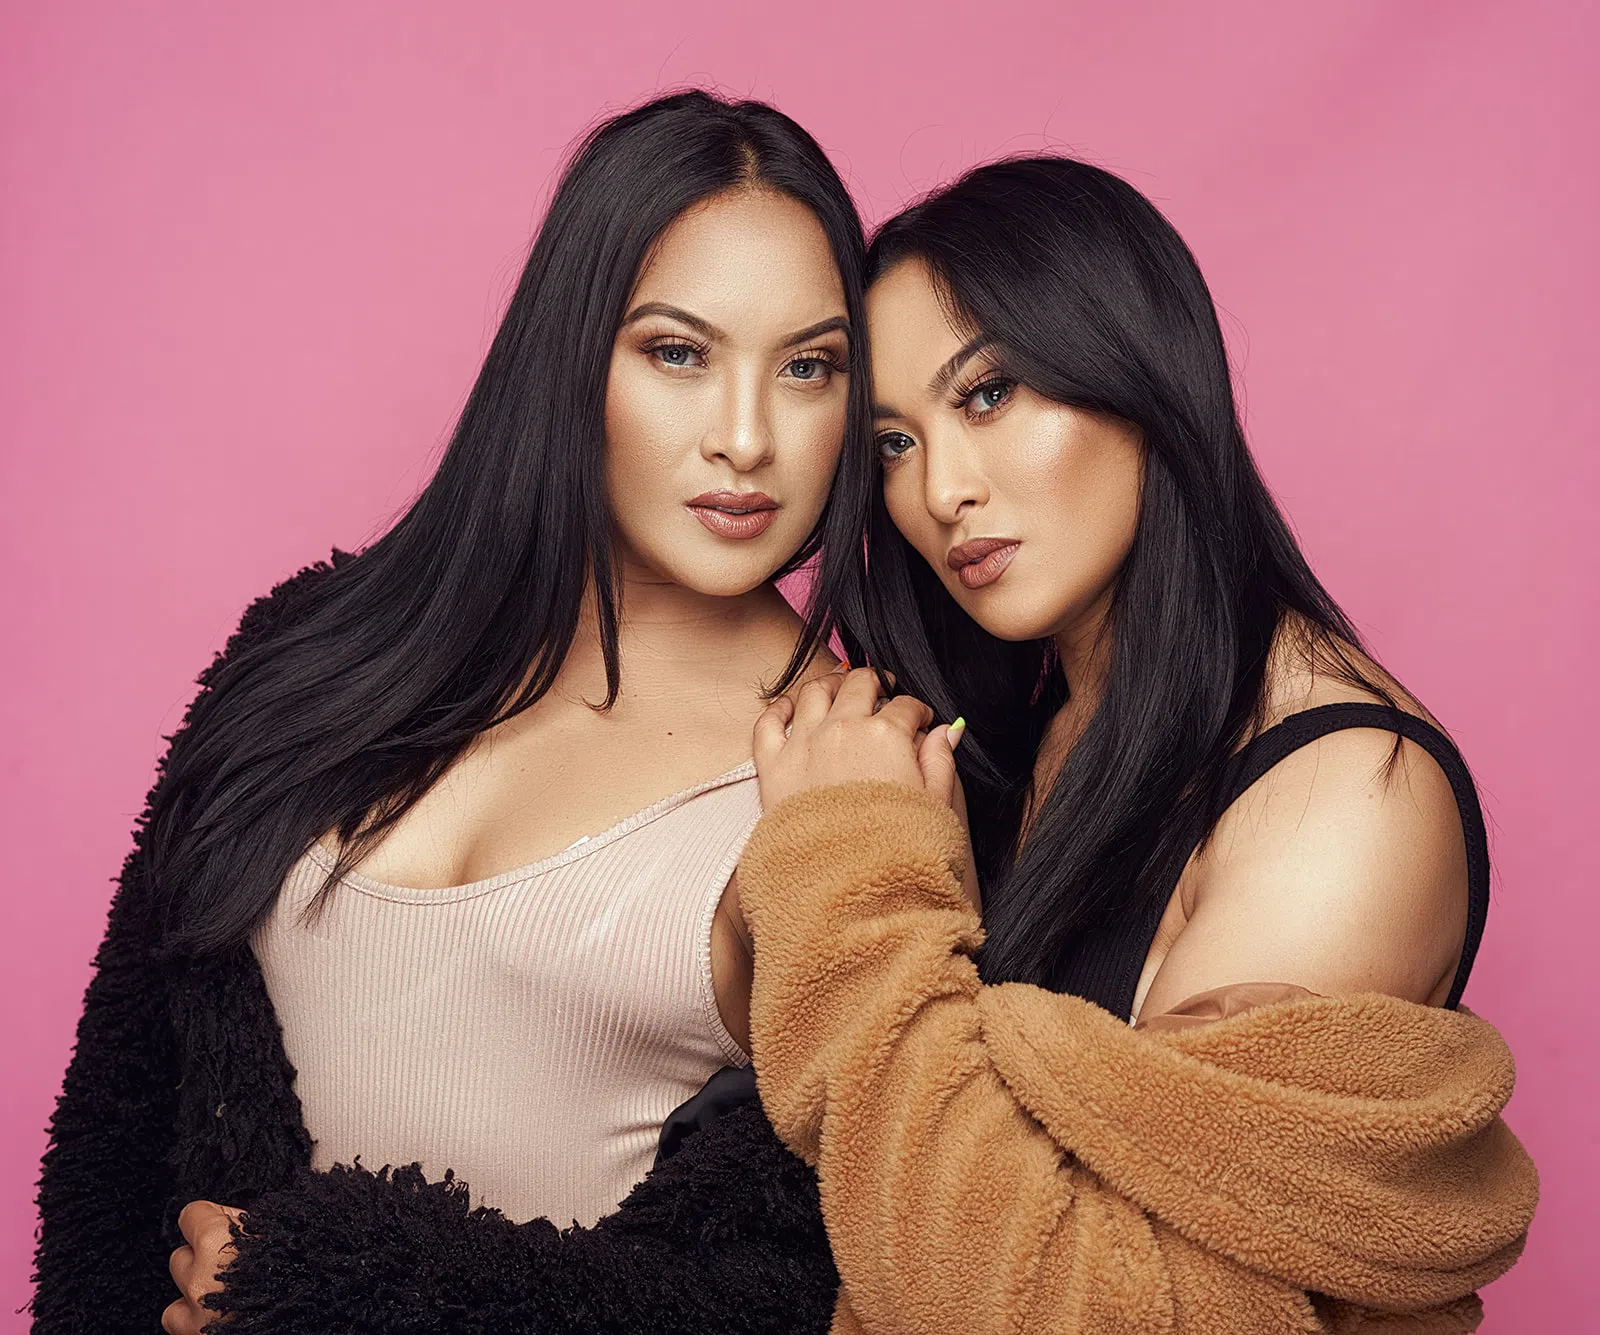
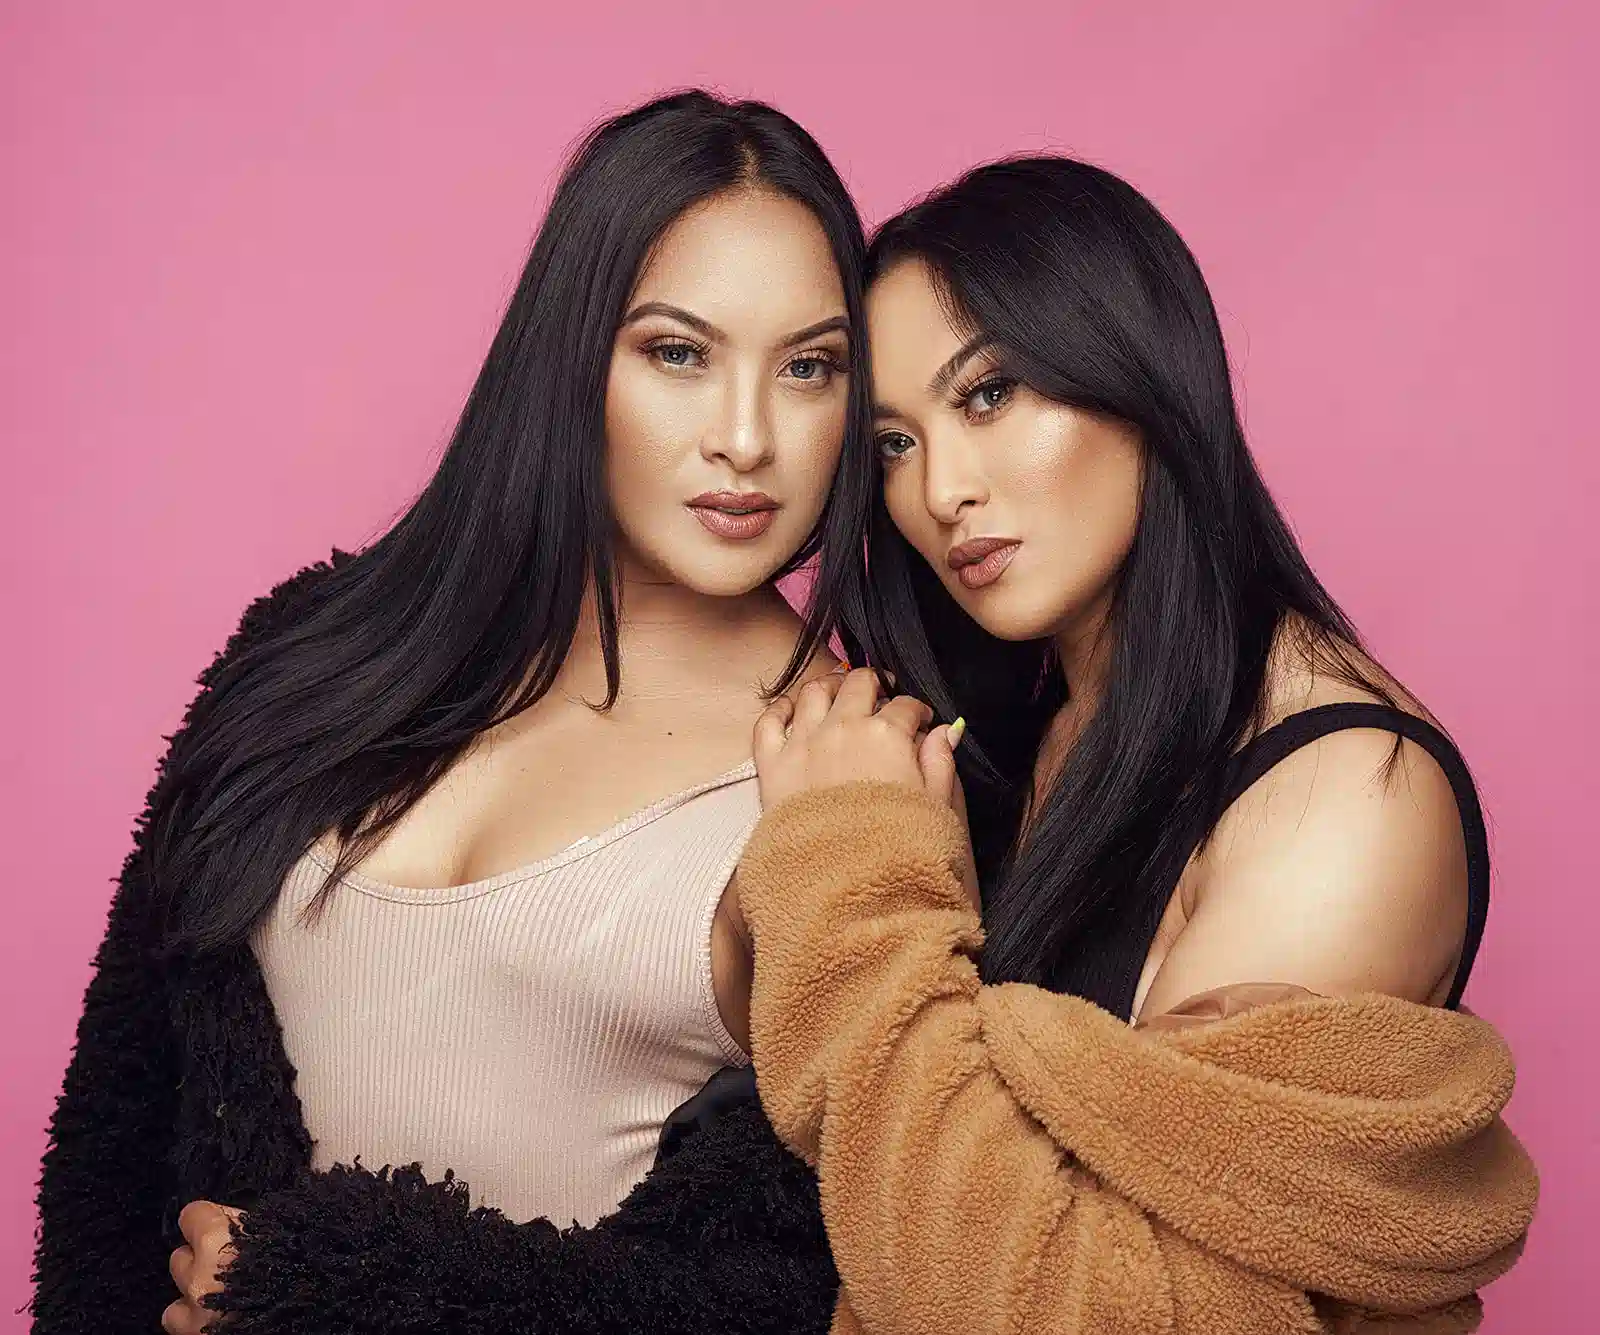
Compressed images to webp using lossy compresion at 20

diff --git a/src/App.svelte b/src/App.svelte
@@ -12,21 +12,34 @@
         <a href="https://www.youtube.com/channel/UC91OgmMT9nhFcjjDEfmJy-w" target="_blank"><i id="youtube" class="fab fa-youtube fa-5x"></i></a>
         <a href="https://instagram.com/macktwinsmakeup" target="_blank"><i id="insta" class="fab fa-instagram-square fa-5x"></i></a>
     </center>
-    
+    <br><br>
+    <h1>who we are</h1>
     <div transition:scale="{{ duration: 2000, delay: 2000}}" class="pad-top">
-        <div class="row center">
-            <div class="col">
-                <img src="portrait_One.webp" alt="portrait_image" height="1000vh" width="680vw">
-            </div>
-            <div class="col down">
-                <img src="portrait_Two.webp" alt="portrait_image" height="1000vh" width="680vw">
+        <div class="container">
+            <div class="row">
+                <div class="col-md-6 col-sm-12">
+                    <img class="img-fluid" src="portrait_One.webp" alt="portrait_image" height="1000vh" width="680vw">
+                    <p class="pt-4">We eventually left the makeup industry to pursue Jobs In the field in which we studied – Biotechnology.</p>
+                    <p>Yet our passion for makeup never left us and as a side hustle we did some freelancing makeup Jobs.</p>
+                    <p>The Beauty Industry really ignited the passion within us , to push our creativity to the next level and enhance our artistry skill.</p>
+                </div>
+                <div class="col-md-6 col-sm-12">
+                    <p>We are the <strong>Mack Twins</strong>, Chanel & Charnay Mack , professional freelance makeup artists.</p>
+                    <p><strong>Welcome to our Makeup Website</strong></p>
+                    <p class="pb-4">Our makeup Artistry journey started in the year 2013, while studying towards our Bsc degrees. We were approached by @elizabetharden to promote their new lipstick line , and from there got approached by @bobbibrown and worked there for 2 years and then @maccosmeticsafrica for another 2 years and lastly @urbandecaycosmetics .</p>
+                    <img class="img-fluid" src="portrait_Two.webp" alt="portrait_image" height="1000vh" width="680vw">
+                </div>
             </div>
         </div>
-    </div> 
-
-    <div class="">
-        <h1>who we are</h1>
     </div>
 
-    <center><img transition:scale="{{ duration: 2000, delay: 3000}}" src="portrait_Three.webp" alt="portrait_image" height="800vh" width="1000vw"></center>
+    <div class="">
+        <br>
+        <p><strong>All women want to feel beautiful and we want to  ignite that feeling in each and everyone of</strong></p>
+        <h3><strong>YOU</strong></h3>
+        <br>
+        <h2>Mack Twins</h2>
+    </div>
+
+    <center><img class="img-fluid" transition:scale="{{ duration: 2000, delay: 3000}}" src="portrait_Three.webp" alt="portrait_image" height="800vh" width="1000vw"></center>
 </div>

diff --git a/public/global.css b/public/global.css
@@ -66,7 +66,21 @@ button:focus {
 h1{
     text-align: center;
     text-transform: uppercase;
-    font-size: 3rem;
+    font-size: 2.5rem;
+}
+h2{
+    text-align: center;
+    text-transform: uppercase;
+    font-size: 2rem;
+}
+h3{
+    text-align: center;
+    text-transform: uppercase;
+    font-size: 2rem;
+}
+p{
+    font-size: 1.4rem;
+    text-align: center;
 }
 i{
     margin: 0 auto;
@@ -75,23 +89,12 @@ i{
     padding-top: 8vh;
     color: #333;
 }
-img{
-    padding-left: 2vw;
-    padding-right: 2vw;
-}
 .down{
-    padding-top: 34vh;
+    padding-top: 2vh;
 }
 .center{
     display: flex;
     justify-content: center;
-}
-.row {
-    display: flex;
-}
-.column{
-    flex: 50%;
-    padding: 10px;
 }
 #facebook:hover{
     color: #4C6EF5;

diff --git a/public/index.html b/public/index.html
@@ -6,7 +6,8 @@
 
 	<title>MTME</title>
 
-	<link rel='icon' type='image/png' href='/favicon-32x32.png'>
+    <link rel='icon' type='image/png' href='/favicon-32x32.png'>
+    <link href="https://cdn.jsdelivr.net/npm/bootstrap@5.0.0-alpha3/dist/css/bootstrap.min.css" rel="stylesheet" integrity="sha384-CuOF+2SnTUfTwSZjCXf01h7uYhfOBuxIhGKPbfEJ3+FqH/s6cIFN9bGr1HmAg4fQ" crossorigin="anonymous">
 	<link rel='stylesheet' href='/global.css'>
 	<link rel='stylesheet' href='/build/bundle.css'>
 
@@ -26,4 +27,5 @@
 
 <body>
 </body>
+<script src="https://cdn.jsdelivr.net/npm/bootstrap@5.0.0-alpha3/dist/js/bootstrap.bundle.min.js" integrity="sha384-popRpmFF9JQgExhfw5tZT4I9/CI5e2QcuUZPOVXb1m7qUmeR2b50u+YFEYe1wgzy" crossorigin="anonymous"></script>
 </html>
